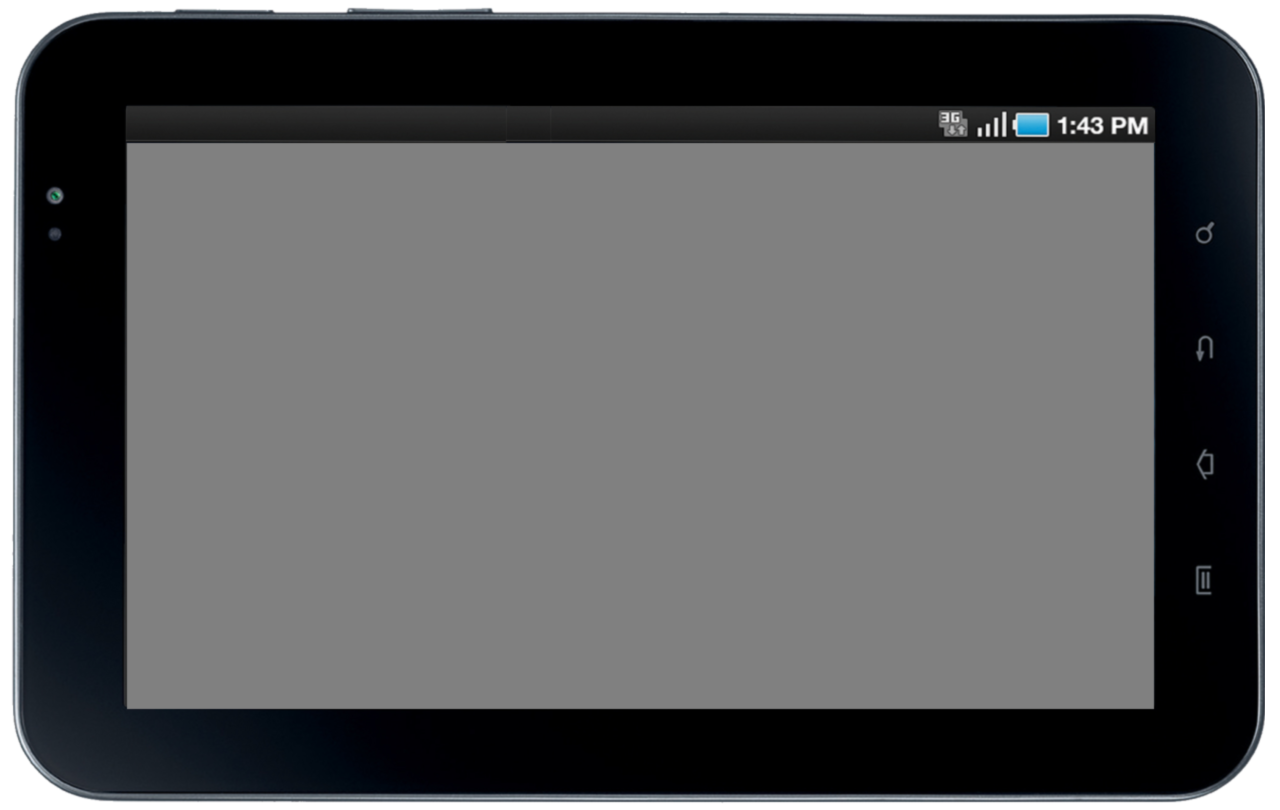
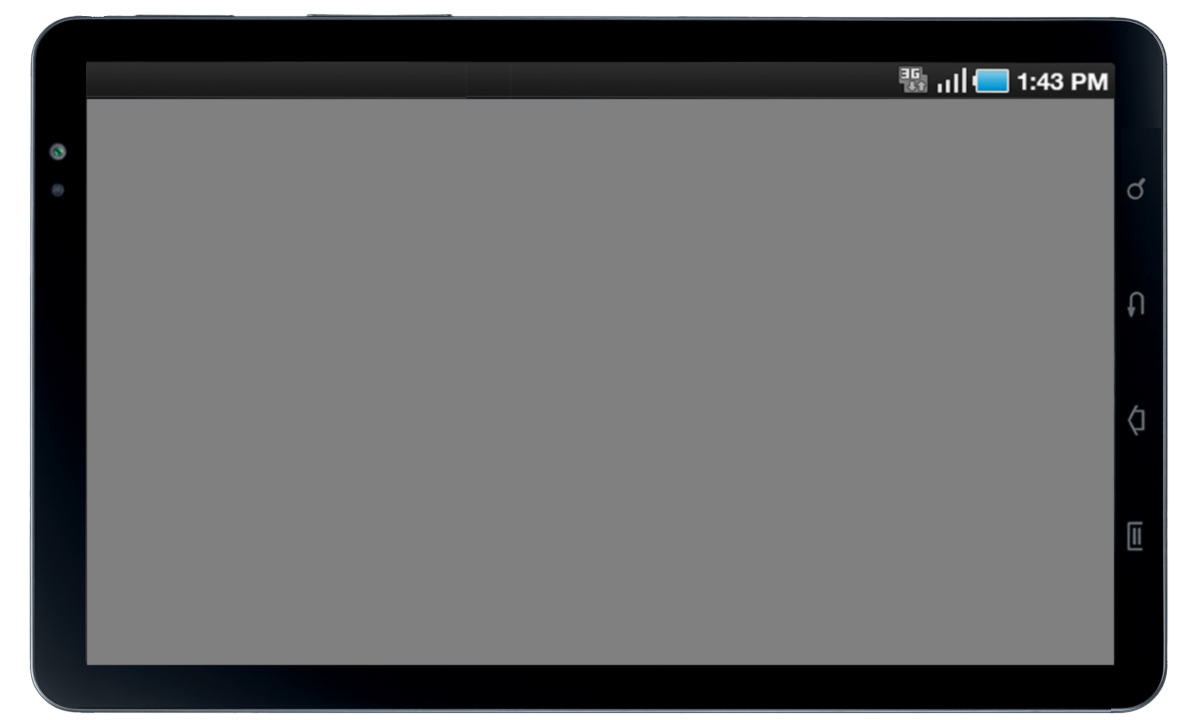
W.I.P.

Changed region(s): [[0.0, 0.0, 1.0, 1.0], [0.0308, 0.0306, 0.0617, 0.0611]]

diff --git a/app/stylesheets/emulators/galaxy.tab.7.landscape.scss b/app/stylesheets/emulators/galaxy.tab.7.landscape.scss
@@ -2,14 +2,14 @@
 
 .ipad .emulator {
   background: image_url("emulators/galaxy.tab.7.landscape.png") no-repeat;
-  width: 1280px;
-  height: 810px;
+  width: 1200px;
+  height: 720px;
   .display-area {
     position: relative;
-    top: 144px;
+    top: 100px;
     width: 1024px;
-    height: 563px;
-    max-height: 563px;
+    height: 564px;
+    max-height: 564px;
     color: #ffffff;
     a {
       color: #ff5500; } } }

diff --git a/app/stylesheets/emulators/galaxy.tab.7.portrait.scss b/app/stylesheets/emulators/galaxy.tab.7.portrait.scss
@@ -2,11 +2,11 @@
 
 .ipad .emulator {
   background: image_url("emulators/galaxy.tab.7.portrait.png") no-repeat;
-  width: 816px;
-  height: 1266px;
+  width: 720px;
+  height: 1160px;
   .display-area {
     position: relative;
-    top: 159px;
+    top: 104px;
     width: 600px;
     height: 987px;
     max-height: 987px;
